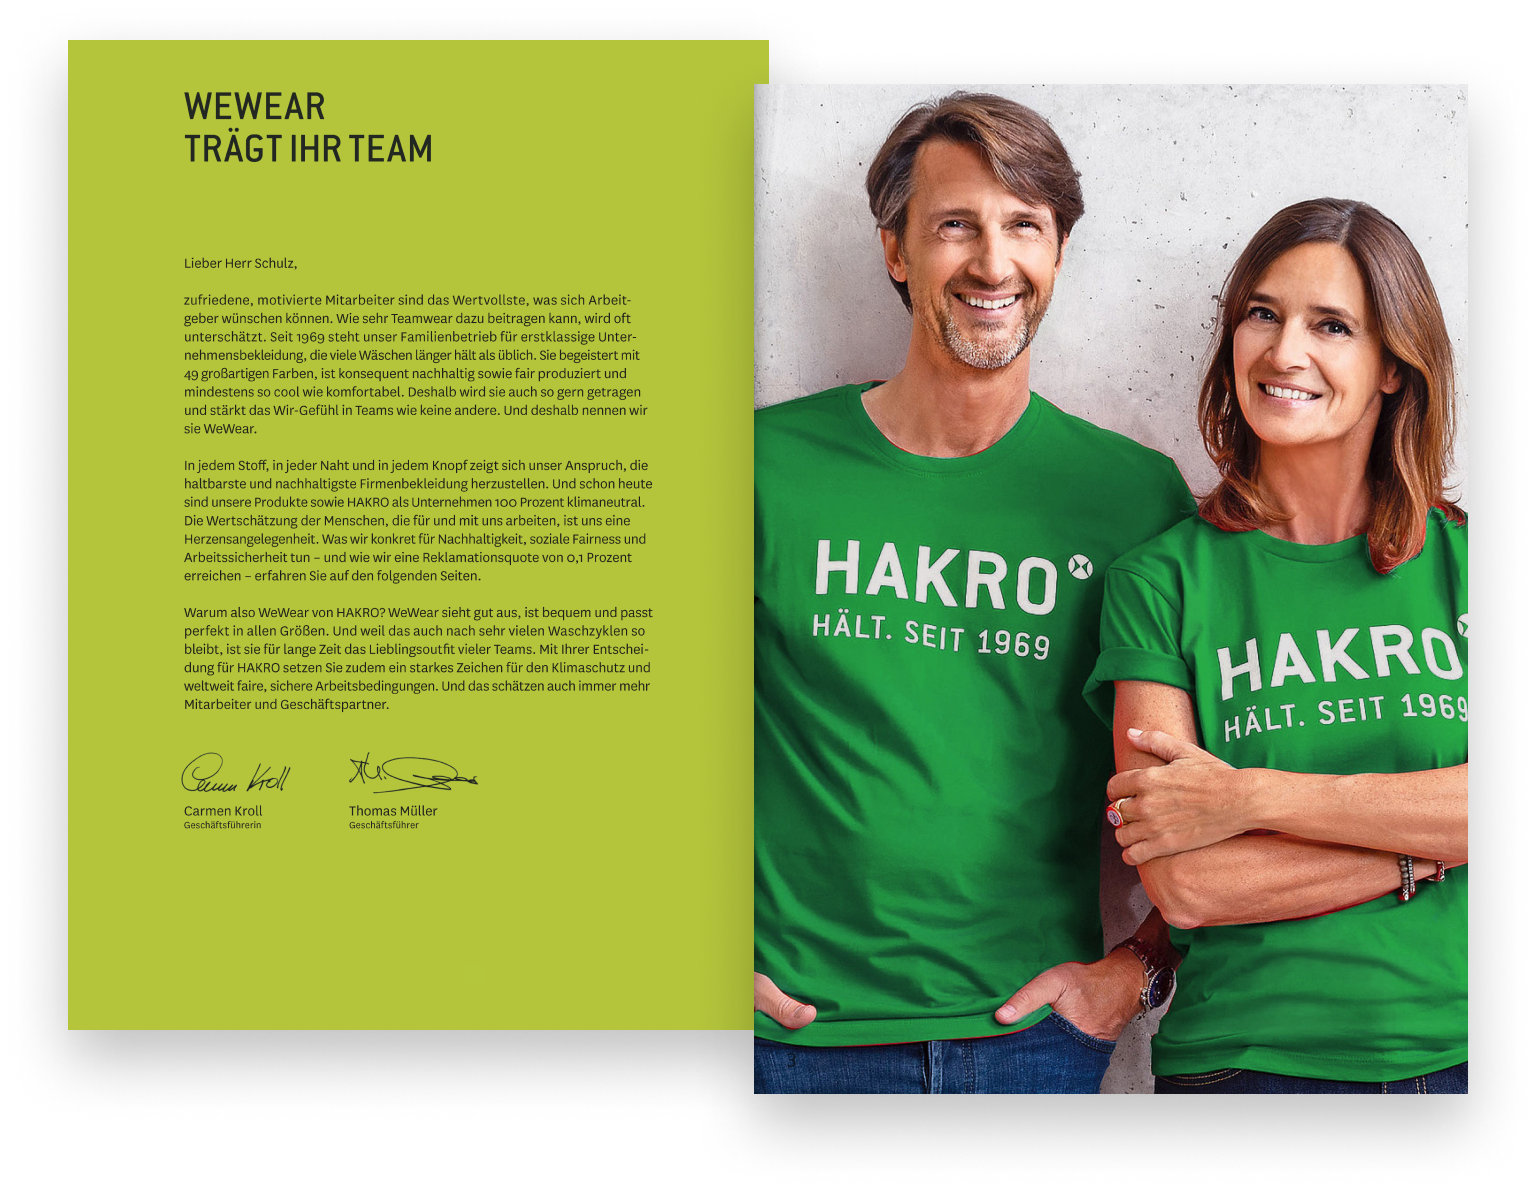
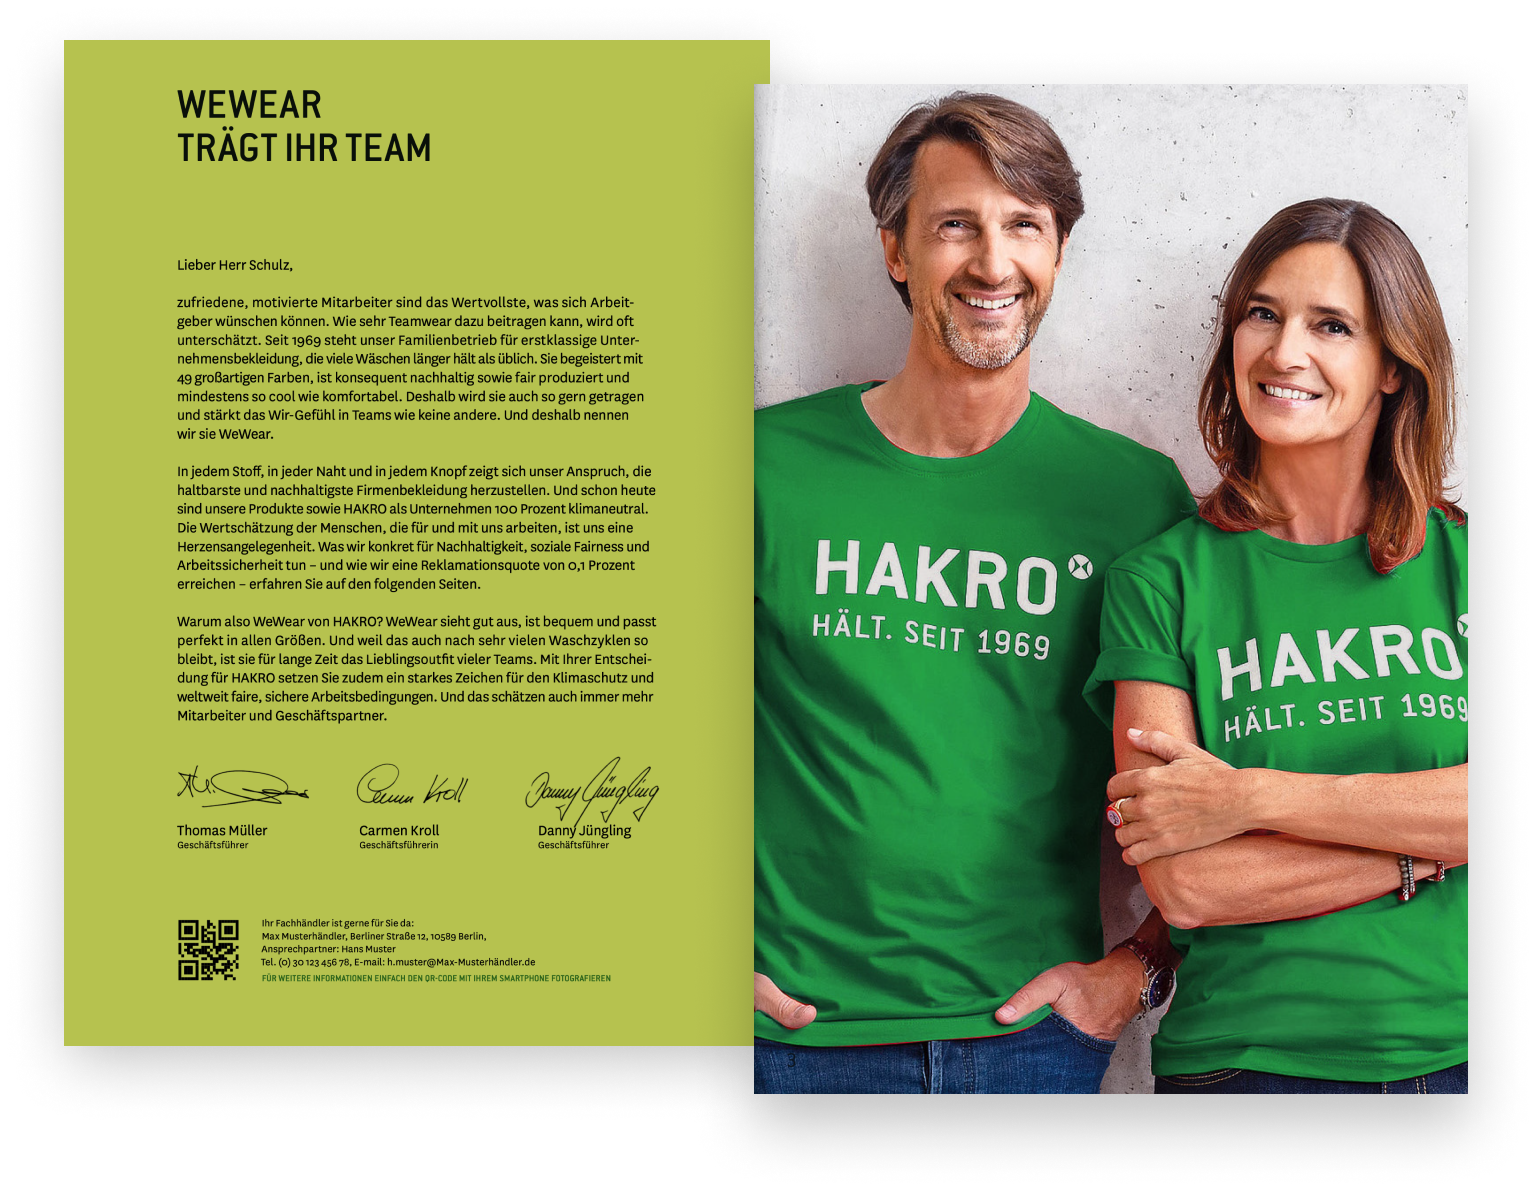
layout updates

diff --git a/appdata/templates/index.html b/appdata/templates/index.html
@@ -62,15 +62,18 @@
         <div class="sticky_container">
 
           <div class="sticky_element">
+            <img src="{{url_for('static', filename='images/qr_code.png')}}" class="overlay_sticky_qr" />
             <div class="overlay_sticky_text">
-              <img src="{{url_for('static', filename='images/qr_code.png')}}" class="overlay_sticky_qr" />
-              <span id="output_company_name" style="font-weight: bold;">Ihre Firma</span><br />
-              <span id="output_streetname">Ihre Straße</span><br />
+              <span>Ihr Fachhändler ist gerne für Sie da:</span><br />
+              <span id="output_company_name">Ihre Firma</span>,
+              <span id="output_streetname">Ihre Straße</span>,
               <span id="output_plz">PLZ</span>
-              <span id="output_city">Ort</span><br />
-              <span id="output_name">Ansprechpartner</span><br />
-              <span id="output_email">E-Mail Adresse</span><br />
-              <span id="output_phone">Telefonnummer</span>
+              <span id="output_city">Ort</span>,<br />
+              Ansprechpartner: <span id="output_name">Ansprechpartner</span><br />
+              Tel. <span id="output_phone">Telefonnummer</span>,
+              E-mail: <span id="output_email">E-Mail Adresse</span><br />
+              <div class="qr_note">FÜR WEITERE INFORMATIONEN
+                EINFACH DEN QR-CODE MIT IHREM SMARTPHONE FOTOGRAFIEREN</div>
             </div>
           </div>
         </div>
@@ -126,24 +129,17 @@
             </div>
             <div class="row">
               <div class="input-field col s12">
+                <label for="phone">Telefonnummer *</label>
+                <input type="tel" name="phone" id="phone" />
+              </div>
+            </div>
+            <div class="row">
+              <div class="input-field col s12">
                 <label for="email">E-Mail Adresse *</label>
                 <input type="email" name="email" id="email" />
               </div>
             </div>
 
-            <div class="row">
-              <div class="input-field col s12">
-                <label for="phone">Telefonnummer *</label>
-                <input type="tel" name="phone" id="phone" />
-              </div>
-            </div>
-            <!-- <h2>Kundennummer?</h2>
-              <div class="row">
-                <div class="input-field col s12">
-                  <label for="costumer_id">Ihre Kundennummer *</label>
-                  <input type="text" name="costumer_id" id="costumer_id" />
-                </div>
-              </div> -->
             <div class="section">
               <h2>Ihr Firmenlogo</h2>
               <p style="margin-bottom: 0">

diff --git a/appdata/static/assets/css/hakro.css b/appdata/static/assets/css/hakro.css
@@ -22,7 +22,8 @@
 
 h1,
 h3,
-button {
+button,
+.qr_note {
   font-family: "Conduit ITC Medium";
   text-transform: uppercase;
   -webkit-font-smoothing: antialiased;
@@ -558,35 +559,53 @@ li::before {
 }
 
 .sticky_container {
-  height: 960px;
+  height: 870px;
   position: absolute;
-  left: 16.4%;
-  pointer-events: none
+  left: 8.9%;
+  pointer-events: none;
+}
+.zoomed_element {
+  background-color: #b5c24e;
+  position: -webkit-sticky;
+  top: 30px;
+  width: 573px;
+  height: 140px;
+  z-index: 1000;
+  margin: -80px auto auto auto;
+  box-shadow: 0px 12px 20px #00000040;
 }
 
 .sticky_element {
-  background-color: #b4c43b;
+  background-color: #b5c24e;
   position: -webkit-sticky;
   position: sticky;
   top: 30px;
-  width: 470px;
+  width: 573px;
   height: 140px;
   z-index: 100;
-  margin: -90px auto auto auto;
+  margin: -80px auto auto auto;
   box-shadow: 0px 12px 20px #00000040;
 }
+
 .overlay_sticky_text {
-  width: 58%;
+  width: 78%;
   position: absolute;
-  top: 15.125%;
-  left: 27.75%;
+  top: 20.925%;
+  left: 22.15%;
   text-align: left;
   font-size: 13.7px;
   line-height: 16px;
 }
 .overlay_sticky_qr {
-  width: 26%;
+  width: 14%;
   position: absolute;
-  top: 11.8%;
-  left: -36.7%;
+  top: 20.8%;
+  left: 4.3%;
+}
+
+.qr_note {
+  font-size: 12px;
+  line-height: 20px;
+  margin-top: 0px;
+  color: #005800;
 }
